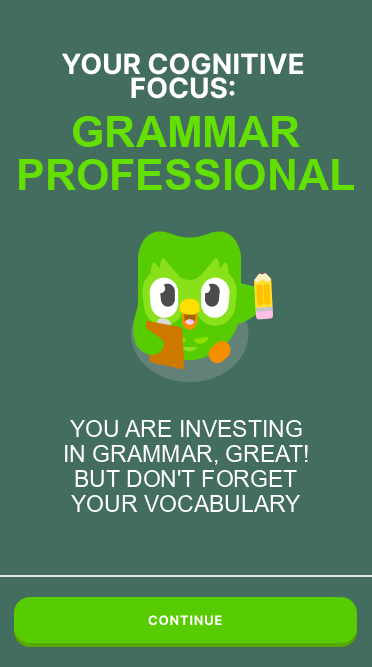
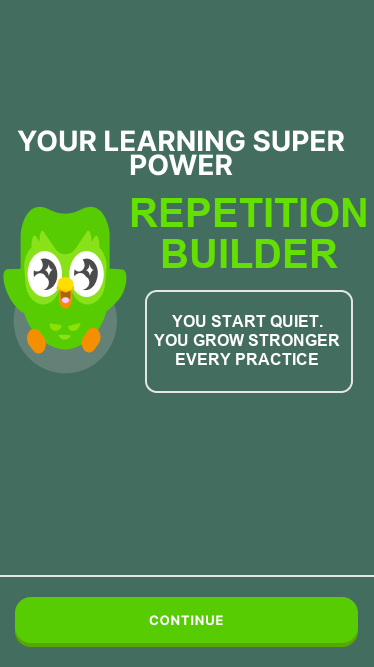
slide 4 en 5 app + requirements

diff --git a/figma.py b/figma.py
@@ -80,14 +80,14 @@ img.show()
 
 ################################################
 #SLIDE 4
-img = Image.open("slide4.png")
+img = Image.open("app_slides/slide4.png")
 draw = ImageDraw.Draw(img)
 
 width, height = img.size
 
 learning_age = 27  # dynamisch
 
-font = ImageFont.truetype("arialbd.ttf", 400)
+font = ImageFont.truetype("arialbd.ttf", 200)
 
 # positie ongeveer waar jouw 67 stond
 x = width / 2
@@ -107,5 +107,55 @@ img.show()
 #########################################
 #slide5
 
+learner = "REPETITION\nBUILDER"
+#"FAST\nBURNER"
+#"STEADY\nRETAINER"  #dynamish
+
+description1= "YOU IGNITE FAST.\nYOU GRASP CONCEPTS\nQUICKER THAN MOST"
+description2= "YOU START QUIET.\nYOU GROW STRONGER\nEVERY PRACTICE"
+description3= "YOU KEEP GOING\nYOU REMEMBER\nWHAT'S IMPORTANT"
+
+if learner == "REPETITION\nBUILDER":
+    description = description2
+elif learner == "FAST\nBURNER":
+    description = description1
+elif learner == "STEADY\nRETAINER":
+    description = description3
+else:
+    description = "UNKNOWN PROFILE"
+
+img = Image.open("app_slides/slide5.png")
+draw = ImageDraw.Draw(img)
+
+width, height = img.size
+
+# Fonts
+font_title = ImageFont.truetype("arialbd.ttf", int(height*0.060))
+font_desc = ImageFont.truetype("arialbd.ttf", int(height*0.025))
+
+# ---- TITLE ----
+draw.text(
+    (width/2+62, height*0.35),   # positie midden boven duo
+    learner,
+    fill="#63E000",
+    font=font_title,
+    anchor="mm", 
+    align="center"
+)
+
+# ---- DESCRIPTION ----
+draw.text(
+    (width/2+60, height*0.51),   # onder duo
+    description,
+    fill="white",
+    font=font_desc,
+    anchor="mm",
+    align="center"
+)
+
+output_folder = "app_slides_update"
+output_path = os.path.join(output_folder, "slide_dynamic.png")
+img.save(output_path)
+img.show()
 
 
